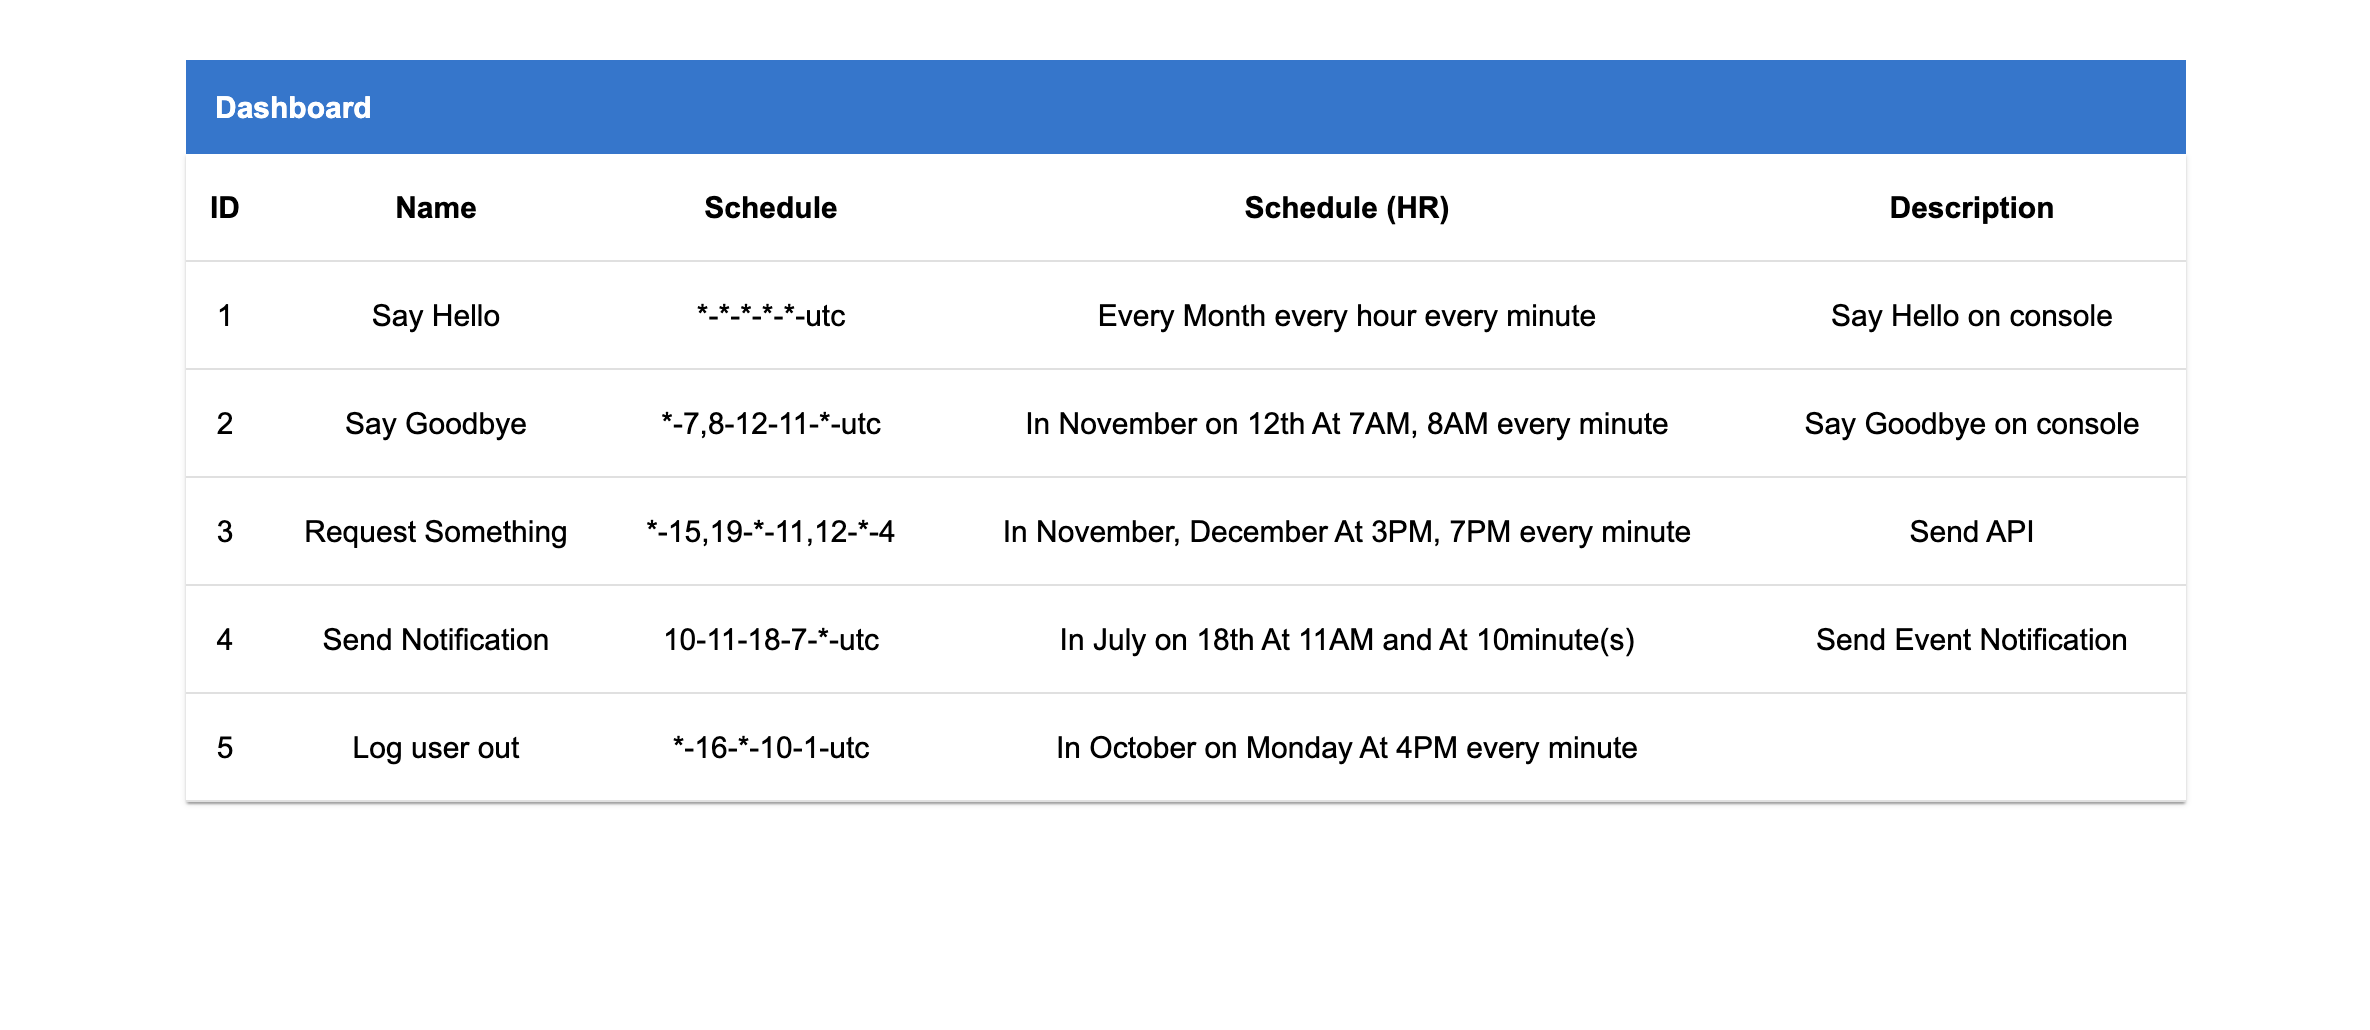
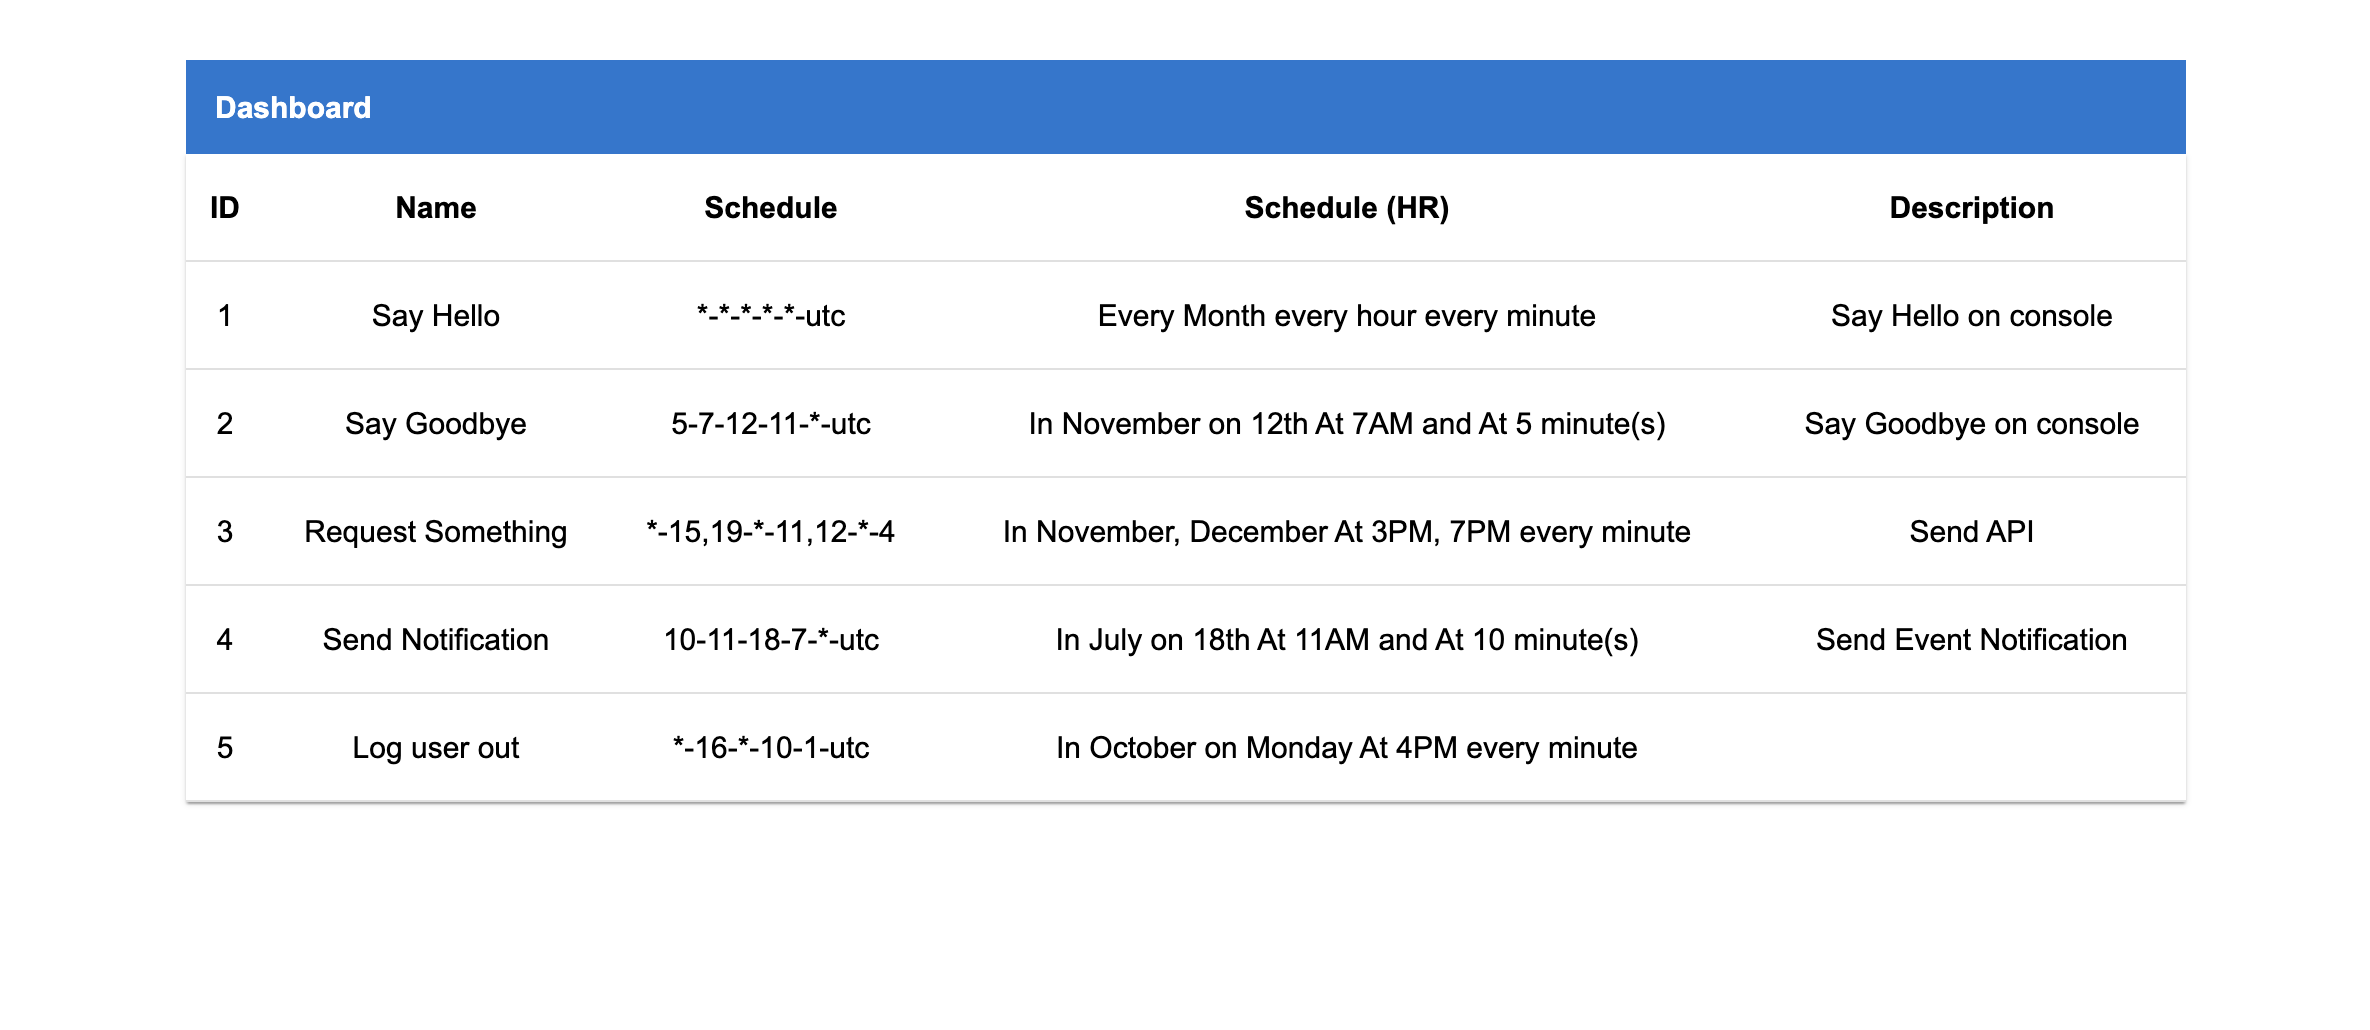
editted docs

Changed region(s): [[0.4371, 0.5903, 0.6869, 0.6524], [0.4371, 0.4039, 0.7181, 0.435], [0.281, 0.4039, 0.3747, 0.435]]

diff --git a/src/components/basicCron/dashboard/Dashboard.jsx b/src/components/basicCron/dashboard/Dashboard.jsx
@@ -104,9 +104,9 @@ const addHrTime = (tasks) => {
       }
       for (let i = 0; i < arr.length; i++) {
         if (i === 0) {
-          hrTime += ` ${arr[i]}minute(s)`
+          hrTime += ` ${arr[i]} minute(s)`
         } else {
-          hrTime += `, ${arr[i]}minute(s)`
+          hrTime += `, ${arr[i]} minute(s)`
         }
       }
     }

diff --git a/src/common/data/BasicCronDefaultProps.jsx b/src/common/data/BasicCronDefaultProps.jsx
@@ -32,7 +32,7 @@ const defaultTasks = [
   {
     fn: sayGoobye,
     id: '2',
-    config: '*-7,8-12-11-*-utc',
+    config: '5-7-12-11-*-utc',
     name: 'Say Goodbye',
     description: 'Say Goodbye on console'
   },

diff --git a/README.md b/README.md
@@ -22,18 +22,9 @@ npm install date-fns@^2.0.0 --save-dev
 
 - [Linux Crontab](https://www.geeksforgeeks.org/crontab-in-linux-with-examples)
 
-<!-- ## Note
+## Just updated to 1.4.0
 
-This package is not entirely stable at the moment. There are still a tons of features that I'd like to implement. However, it will work pretty well if you follow my guide.
-
-I'm developing this package as hard as possible to make it super useful to your project :)
-Thank you so much for your attention! -->
-
-<!-- In many cases, We need to implement repetitive tasks which runs at particular time, such as sending notification, api call and so on .
-This is very mamual and sometimes, very complecated to do so.
-Therefore, I've decided to create crontab node package, which is similar to Linux crontab.
-
-The good-looking dashboard that I've created with crontab will be very helpful for scheduling and managing your repetitive tasks. -->
+Now it supports multiple config time values
 
 ## Crontab Config Format
 
@@ -41,12 +32,23 @@ The good-looking dashboard that I've created with crontab will be very helpful f
 MIN-HOUR-DOM-MON-DOW-TIMEZONE
 ```
 
-- MIN represents minute(s), can be 0 through 59. `*` means every minute
+OR
+
+Multiple like this
+
+```
+MIN,MIN-HOUR,HOUR-DOM,DOM-MON,MON-DOW,DOW-TIMEZONE
+```
+
+- MIN represents minute(s), can be 0 through 59
+  . `*` means every minute
 - HOUR represents hour(s) of a day, can be 0 through 23. `*` means every hour
 - DOM represents day of month, can be 1 through 31. `*` means every day
 - MON represents month, can be 1 through 12. `*` means every month
 - DOW represents day of week, can be 1 through 7. 1 is Monday, 2 is Tusday and so on. `*` means every day
 - TIMEZONE represent the timezone that crontab will refer to when it triggers tasks. Unfortunately, We only support 'utc timezone'. But we're working hard to improve this.
+- Each sort of time value(s) must be separated by a hyphen '-'
+- Multiple values must be separated by comma ','
 
 ## Basic Example
 
@@ -94,8 +96,9 @@ const tasks = [
   {
     fn: sayGoobye,
     id: '2',
-    config: '*-7,8-12-11-*-utc',
-    // Execute In November on 12th At 7AM, 8AM every minute
+    config: '5-7-12-11-*-utc',
+    // Execute In November on 12th At 7AM and At 5 minute(s)
+
     name: 'Say Goodbye',
     description: 'Say Goodbye on console'
   },
@@ -111,7 +114,7 @@ const tasks = [
     fn: sendNotification,
     id: '4',
     config: '10-11-18-7-*-utc',
-    // Execute In July on 18th At 11AM and At 10minute(s)
+    // Execute In July on 18th At 11AM and At 10 minute(s)
     name: 'Send Notification',
     description: 'Send Event Notification'
   },
@@ -140,7 +143,7 @@ BasicCron Props {
     {
       fn: yourFn, // (required field) type function
       id: '1', // (required field) type string
-      config: '*-11-18-10-*-utc', // (required field) type string
+      config: '*-11-18-10,13-*-utc', // (required field) type string
       name: 'logUserOut', // (optional field) type string
       description: 'Send API' // (optional field) type string
     }
@@ -154,7 +157,8 @@ BasicCron Props {
 
 - This will work well for simple crontab task but I have tons of features that I'd like to add. So stay tuned!
   Thank you so much for your attention!
-- feel free to open issue. Any idea that could improve this package or bug report will be highly appreciated.
+- feel free to open issue. [Reactjs-crontab Github repo](https://github.com/shawnscoding/reactjs-crontab).
+  Any idea that could improve this package or bug report will be highly appreciated.
 
 ## License
 
